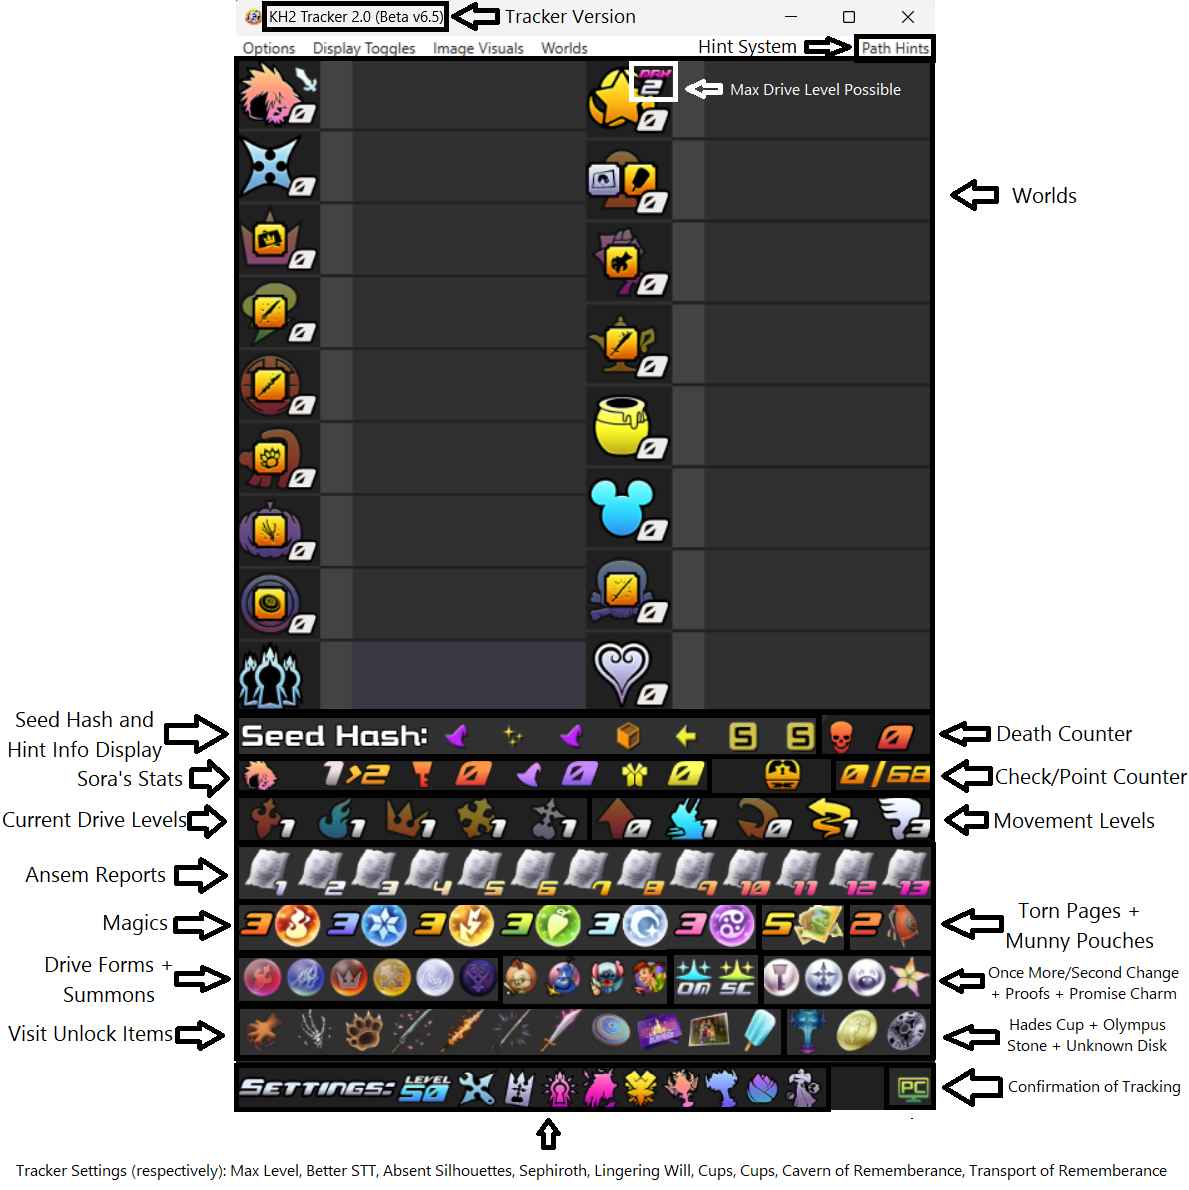
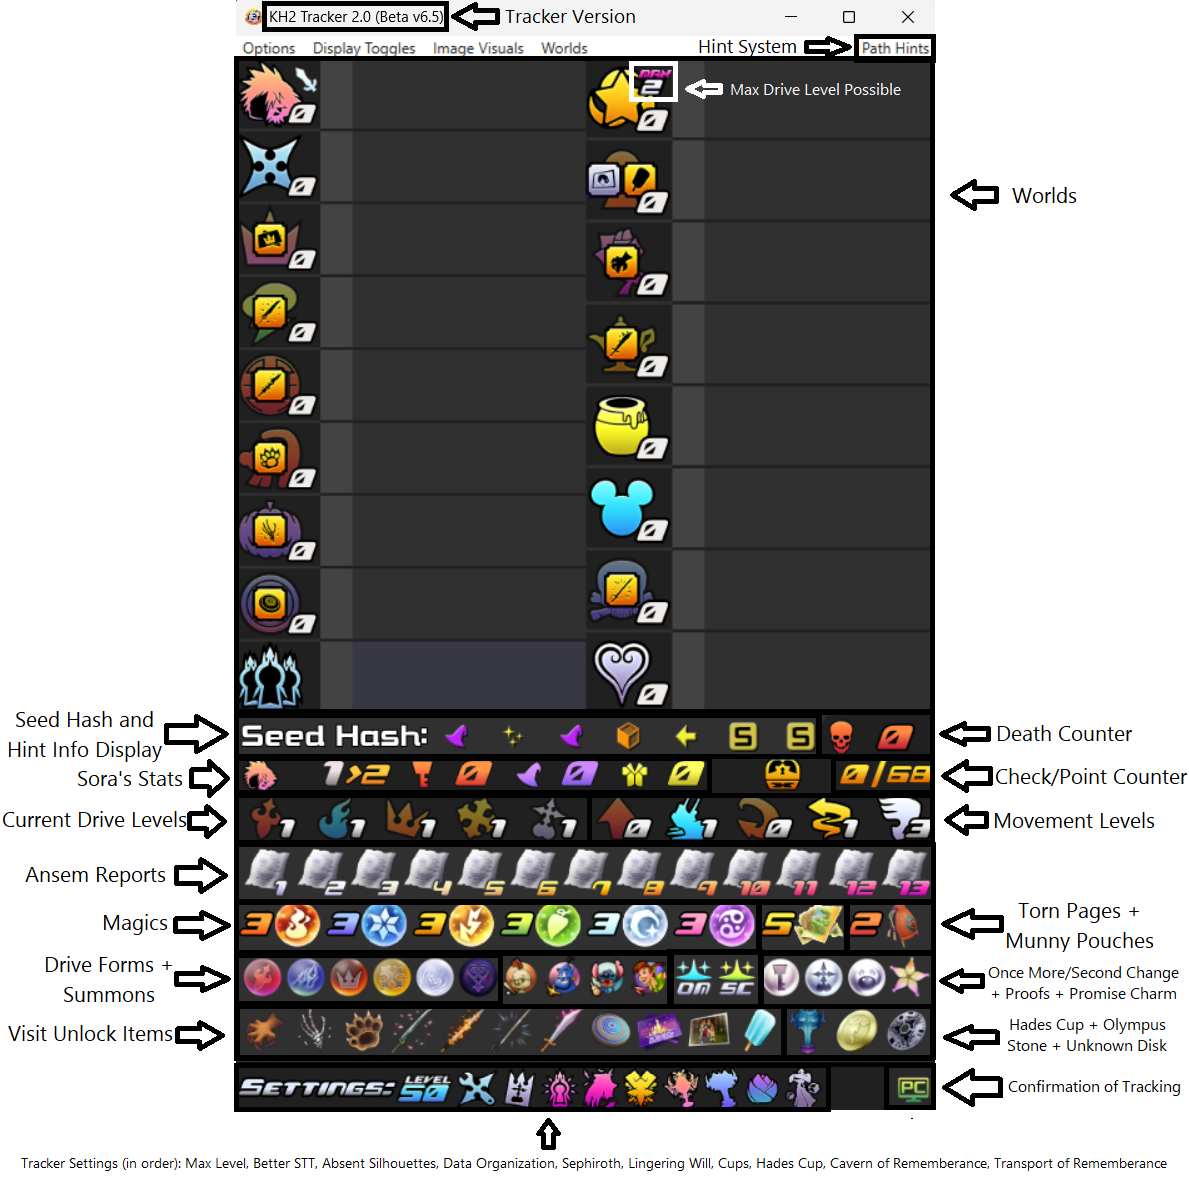
update annotated trakcer settings

Changed region(s): [[0.0, 0.9639, 0.9958, 0.995]]

diff --git a/docs/trackers/index.md b/docs/trackers/index.md
@@ -28,9 +28,9 @@ Now that all of the locations are known, it is important to know you will not al
 
 ### Check Labels
 
-The section of the tracker beneatht the worlds where all the checks are located are called _important checks_. These are checks that will track on the tracker to the appropriate world once you collect it in game.
+The section of the tracker beneath the worlds where all the checks are located are called _important checks_. These are checks that will track on the tracker to the appropriate world once you collect it in game.
 
-Note that while all the possible important checks are included in the image above, not all of them show up in various settings. For example, anti-form, munny pouches, Olympus Stone, Hades Cup, Unknown Disk, and Promise Charm are frequently omitted from seed settings. Additionally, the visit unlocks are not always turned on for certain settings. When turned on, you must find the world specific party member weapon to progress onwards to the second visit of each world. For example, to progress further than the Hydra fight in Olympus Coliseum, you must find Auron's weapon - Battlefields of War - to contine onwards. When these visit unlocking items are off, you are free to go wherever you please and those checks will disappear from the tracker. 
+Note that while all the possible important checks are included in the image above, not all of them show up in various settings. For example, anti-form, munny pouches, Olympus Stone, Hades Cup, Unknown Disk, and Promise Charm are frequently omitted from seed settings. Additionally, the visit unlocks are not always turned on for certain settings. When turned on, you must find the world specific party member weapon to progress onwards to the second visit of each world. For example, to progress further than the Hydra fight in Olympus Coliseum, you must find Auron's weapon - Battlefields of War - to continue onwards. When these visit unlocking items are off, you are free to go wherever you please and those checks will disappear from the tracker. 
 
 ### Changing Image Styles
 
